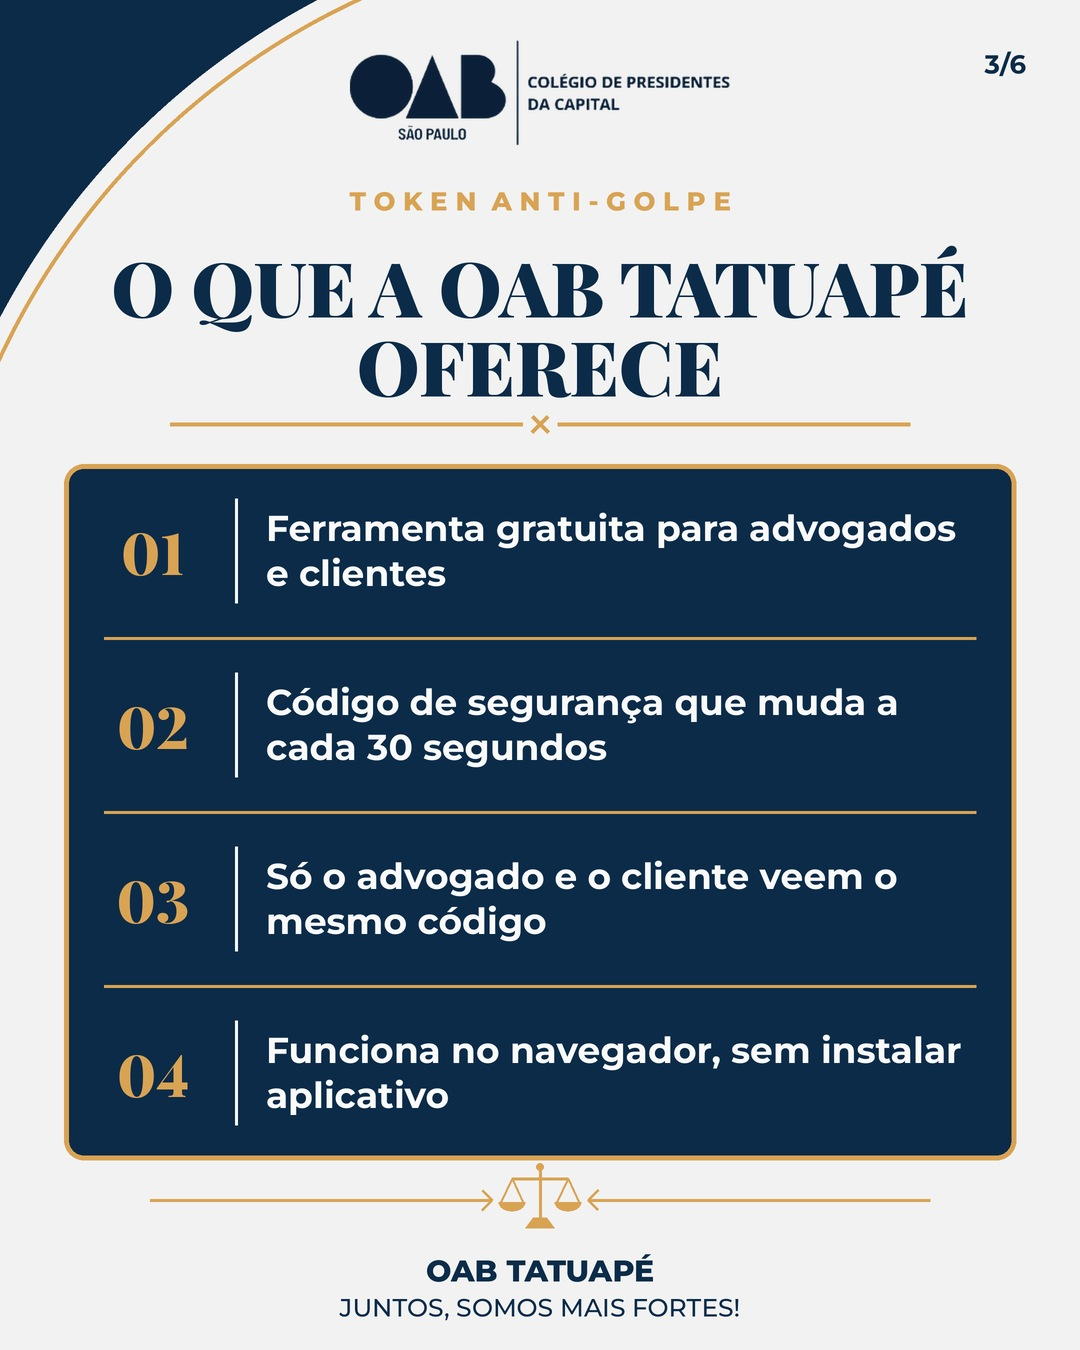
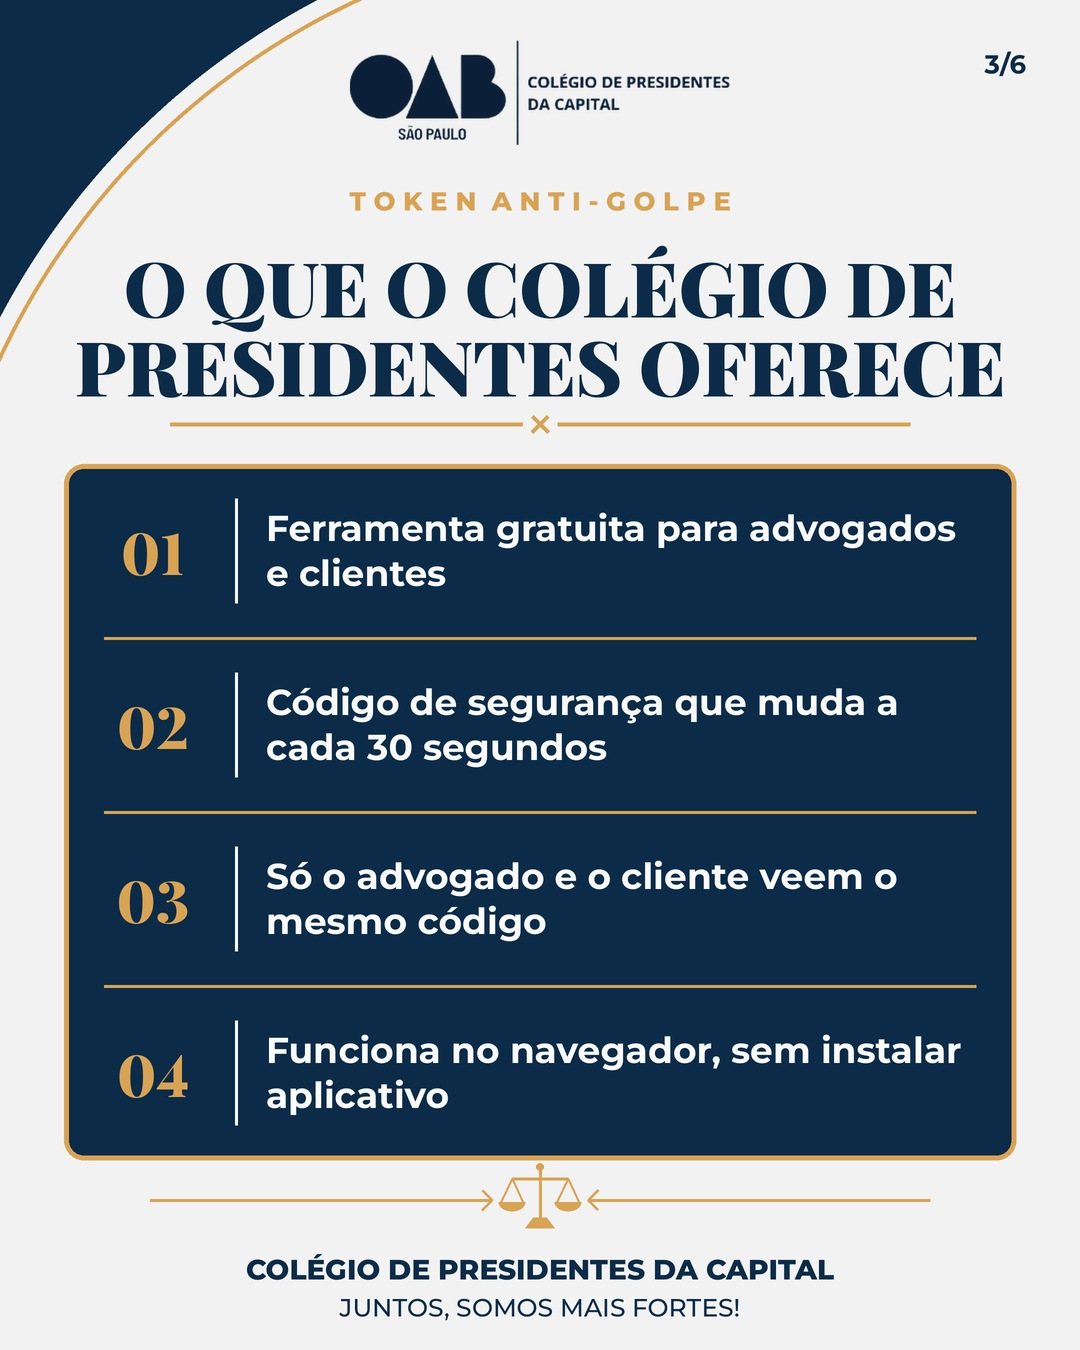
Troca OAB Tatuape por Colegio de Presidentes da Capital
Textos do carrossel W47/04, assinatura do rodape, paginas e folha
impressa do Token Anti-Golpe, rotulo do app autenticador e guia de
identidade (pasta renomeada para identidade-colegio-capital). A
restauracao de copia aceita arquivos no formato antigo.

Claude-Session: https://claude.ai/code/session_0146vcgxv2SC91SuLoKXc1Ea

Changed region(s): [[0.0611, 0.1867, 0.9472, 0.3111], [0.2139, 0.9333, 0.7639, 0.9644]]

diff --git a/token-anti-golpe/advogado.html b/token-anti-golpe/advogado.html
@@ -106,7 +106,7 @@
 
 <footer class="rodape-site">
   Os dados deste painel ficam somente neste navegador. Faça a cópia de segurança com frequência e guarde o arquivo como guarda uma senha.
-  <div class="assina"><b>OAB TATUAPÉ</b>JUNTOS, SOMOS MAIS FORTES!</div>
+  <div class="assina"><b>COLÉGIO DE PRESIDENTES DA CAPITAL</b>JUNTOS, SOMOS MAIS FORTES!</div>
 </footer>
 
 <script src="assets/qrcode.js"></script>
@@ -287,7 +287,7 @@
     var p = dados.perfil;
     $("folha").innerHTML =
       '<h1>Token Anti-Golpe</h1>' +
-      '<p>Iniciativa da Subseção Tatuapé da OAB SP</p>' +
+      '<p>Iniciativa do Colégio de Presidentes da Capital, OAB SP</p>' +
       '<div class="caixa"><b>Seu advogado:</b> ' + T.esc(p.nome) + ' (' + T.esc(p.oab) + ')<br><b>Cliente:</b> ' + T.esc(atual.nome) + '</div>' +
       '<div class="qr">' + T.qrSvg(T.linkVinculo(p, atual), 4) + '</div>' +
       '<p style="text-align:center">Aponte a câmera do celular para o código acima e toque em <b>Confirmar vínculo</b>.</p>' +
@@ -306,7 +306,7 @@
   // ------------------------------------------------ cópia de segurança
 
   $("b-backup").addEventListener("click", function () {
-    var blob = new Blob([JSON.stringify({ tipo: "token-anti-golpe-oab-tatuape", versao: 1, gerado: new Date().toISOString(), dados: dados }, null, 2)], { type: "application/json" });
+    var blob = new Blob([JSON.stringify({ tipo: "token-anti-golpe-colegio-capital", versao: 1, gerado: new Date().toISOString(), dados: dados }, null, 2)], { type: "application/json" });
     var a = document.createElement("a");
     a.href = URL.createObjectURL(blob);
     a.download = "token-anti-golpe-copia-" + new Date().toISOString().slice(0, 10) + ".json";
@@ -324,7 +324,7 @@
     if (!f) return;
     f.text().then(function (txt) {
       var j = JSON.parse(txt);
-      if (!j || j.tipo !== "token-anti-golpe-oab-tatuape" || !j.dados || !Array.isArray(j.dados.clientes)) throw new Error();
+      if (!j || ["token-anti-golpe-colegio-capital", "token-anti-golpe-oab-tatuape"].indexOf(j.tipo) === -1 || !j.dados || !Array.isArray(j.dados.clientes)) throw new Error();
       var novos = j.dados.clientes.filter(function (c) {
         return c && c.id && c.nome && T.segredoValido(c.segredo) && !buscar(c.id);
       });

diff --git a/token-anti-golpe/index.html b/token-anti-golpe/index.html
@@ -3,8 +3,8 @@
 <head>
 <meta charset="utf-8">
 <meta name="viewport" content="width=device-width, initial-scale=1">
-<title>Token Anti-Golpe | OAB Tatuapé</title>
-<meta name="description" content="Ferramenta gratuita da OAB Tatuapé para o cliente confirmar que o contato vem mesmo do seu advogado, com um código de segurança que muda a cada 30 segundos.">
+<title>Token Anti-Golpe | Colégio de Presidentes da Capital</title>
+<meta name="description" content="Ferramenta gratuita do Colégio de Presidentes da Capital (OAB SP) para o cliente confirmar que o contato vem mesmo do seu advogado, com um código de segurança que muda a cada 30 segundos.">
 <link rel="stylesheet" href="assets/app.css">
 </head>
 <body>
@@ -122,8 +122,8 @@
 </main>
 
 <footer class="rodape-site">
-  Token Anti-Golpe, iniciativa da Subseção Tatuapé da OAB SP. Ferramenta gratuita e informativa, sem coleta de dados pessoais.
-  <div class="assina"><b>OAB TATUAPÉ</b>JUNTOS, SOMOS MAIS FORTES!</div>
+  Token Anti-Golpe, iniciativa do Colégio de Presidentes da Capital, OAB SP. Ferramenta gratuita e informativa, sem coleta de dados pessoais.
+  <div class="assina"><b>COLÉGIO DE PRESIDENTES DA CAPITAL</b>JUNTOS, SOMOS MAIS FORTES!</div>
 </footer>
 
 </body>

diff --git a/token-anti-golpe/assets/token.js b/token-anti-golpe/assets/token.js
@@ -1,5 +1,5 @@
 /*
- * Token Anti-Golpe | OAB Tatuapé
+ * Token Anti-Golpe | Colégio de Presidentes da Capital (OAB SP)
  * Núcleo comum: TOTP (RFC 6238, HMAC-SHA1, 6 dígitos, 30 segundos),
  * base32, links de vínculo e armazenamento local.
  *
@@ -11,7 +11,7 @@
 
   var PERIODO = 30;
   var DIGITOS = 6;
-  var EMISSOR = "OAB Tatuapé";
+  var EMISSOR = "OAB SP Colégio da Capital";
   var B32 = "ABCDEFGHIJKLMNOPQRSTUVWXYZ234567";
 
   // ------------------------------------------------------------ base32

diff --git a/token-anti-golpe/assets/app.css b/token-anti-golpe/assets/app.css
@@ -4,7 +4,7 @@
 @font-face { font-family: "Montserrat"; font-weight: 700; font-display: swap; src: url(fonts/Montserrat-Bold.woff2) format("woff2"); }
 @font-face { font-family: "Montserrat"; font-weight: 800; font-display: swap; src: url(fonts/Montserrat-ExtraBold.woff2) format("woff2"); }
 
-/* Identidade OAB Tatuapé: fundo claro, azul-marinho, dourado */
+/* Identidade Colégio de Presidentes da Capital: fundo claro, azul-marinho, dourado */
 :root {
   --navy: #0b2b49;
   --navy-2: #0b2038;

diff --git a/token-anti-golpe/cliente.html b/token-anti-golpe/cliente.html
@@ -72,7 +72,7 @@
 
 <footer class="rodape-site">
   O código é calculado neste celular e nada é enviado pela internet. Mantenha o relógio do celular no horário automático.
-  <div class="assina"><b>OAB TATUAPÉ</b>JUNTOS, SOMOS MAIS FORTES!</div>
+  <div class="assina"><b>COLÉGIO DE PRESIDENTES DA CAPITAL</b>JUNTOS, SOMOS MAIS FORTES!</div>
 </footer>
 
 <script src="assets/qrcode.js"></script>

diff --git a/identidade-colegio-capital/render_colegio_capital.py b/identidade-colegio-capital/render_colegio_capital.py
@@ -1,12 +1,12 @@
 #!/usr/bin/env python3
 """
-Gerador de carrossel na identidade visual da OAB Tatuapé.
+Gerador de carrossel na identidade visual do Colégio de Presidentes da Capital (OAB SP).
 
 Uso:
-    python3 render_oab_tatuape.py roteiro.json -o pasta/saida [--jpg]
+    python3 render_colegio_capital.py roteiro.json -o pasta/saida [--jpg]
 
 Lê um roteiro em JSON e gera um arquivo 1080x1350 por card.
-Paleta, tipografia e ornamentos seguem a arte de referência da Subseção
+Paleta, tipografia e ornamentos seguem a arte de referência
 (fundo claro, azul-marinho, dourado, títulos serifados).
 """
 
@@ -166,7 +166,7 @@ def rodape(draw, W, H, completo):
     seta(draw, cx + px(48), y, -1)
     balanca(draw, cx, y, px(56))
     y += px(52)
-    draw.text((cx, y), "OAB TATUAPÉ", font=fonte("sans_black", px(30)), fill=NAVY, anchor="ma")
+    draw.text((cx, y), "COLÉGIO DE PRESIDENTES DA CAPITAL", font=fonte("sans_black", px(28)), fill=NAVY, anchor="ma")
     y += px(40)
     draw.text((cx, y), "JUNTOS, SOMOS MAIS FORTES!", font=fonte("sans", px(25)), fill=NAVY, anchor="ma")
 
@@ -307,7 +307,7 @@ def card_cta(c, W, H, i, n):
     y += px(28)
     regua(d, px(170), W - px(170), y)
     y += px(40)
-    acoes = c.get("acoes") or ["Siga a OAB Tatuapé", "Compartilhe com quem precisa", "Salve para consultar depois"]
+    acoes = c.get("acoes") or ["Siga o Colégio de Presidentes da Capital", "Compartilhe com quem precisa", "Salve para consultar depois"]
     linhas_na_caixa(d, acoes, px(64), y, W - px(64), H - px(200))
     rodape(d, W, H, completo=True)
     return img
@@ -336,7 +336,7 @@ def gerar(roteiro, saida, jpg=False):
 
 
 def main():
-    ap = argparse.ArgumentParser(description="Carrossel na identidade da OAB Tatuapé")
+    ap = argparse.ArgumentParser(description="Carrossel na identidade do Colégio de Presidentes da Capital")
     ap.add_argument("roteiro")
     ap.add_argument("-o", "--saida", required=True)
     ap.add_argument("--jpg", action="store_true", help="salvar em JPG em vez de PNG")

diff --git a/token-anti-golpe/README.md b/token-anti-golpe/README.md
@@ -1,4 +1,4 @@
-# Token Anti-Golpe | OAB Tatuapé
+# Token Anti-Golpe | Colégio de Presidentes da Capital
 
 Ferramenta gratuita para o cliente confirmar que um contato vem mesmo do seu advogado, por meio de um código de 6 dígitos que muda a cada 30 segundos.
 
@@ -20,7 +20,7 @@ Ferramenta gratuita para o cliente confirmar que um contato vem mesmo do seu adv
 
 ## Publicar
 
-São arquivos estáticos e não exigem servidor de aplicação. Qualquer hospedagem com HTTPS serve: GitHub Pages, Netlify, Cloudflare Pages ou o próprio site da Subseção. HTTPS é obrigatório, porque o navegador só libera a criptografia (`crypto.subtle`) em conexão segura.
+São arquivos estáticos e não exigem servidor de aplicação. Qualquer hospedagem com HTTPS serve: GitHub Pages, Netlify, Cloudflare Pages ou o site institucional. HTTPS é obrigatório, porque o navegador só libera a criptografia (`crypto.subtle`) em conexão segura.
 
 Para testar no computador:
 
@@ -36,12 +36,12 @@ python3 -m http.server 8000
 - O advogado deve fazer a cópia de segurança do painel. O arquivo contém as chaves dos clientes e deve ser guardado como uma senha.
 - A proteção depende da regra de ouro: quem diz o código é o advogado, e o cliente nunca lê o próprio código para ninguém. Sem isso, um golpista pode pedir o código ao cliente e repeti-lo.
 
-## Antes de divulgar como serviço da Subseção
+## Antes de divulgar como serviço do Colégio
 
-- Aprovação da diretoria da Subseção e, se for o caso, ciência da Seccional (OAB SP).
+- Aprovação do Colégio de Presidentes e, se for o caso, ciência da Seccional (OAB SP).
 - Domínio institucional para hospedar as páginas.
 - Revisão de LGPD (a ferramenta não coleta dados, mas a política de privacidade deve dizer isso).
-- Um contato oficial da Subseção para dúvidas, a incluir no rodapé de `index.html`.
+- Um contato oficial do Colégio para dúvidas, a incluir no rodapé de `index.html`.
 
 ## Licenças
 
@@ -49,4 +49,4 @@ python3 -m http.server 8000
 
 ## Identidade visual
 
-As páginas seguem a identidade da OAB Tatuapé descrita em `../identidade-oab-tatuape/README.md`: fundo claro, azul-marinho `#0B2B49`, dourado `#D9A354`, Playfair Display nos títulos e Montserrat no texto. Fontes e logo ficam em `assets/` para as páginas funcionarem sem depender de serviços externos.
+As páginas seguem a identidade do Colégio de Presidentes da Capital descrita em `../identidade-colegio-capital/README.md`: fundo claro, azul-marinho `#0B2B49`, dourado `#D9A354`, Playfair Display nos títulos e Montserrat no texto. Fontes e logo ficam em `assets/` para as páginas funcionarem sem depender de serviços externos.

diff --git a/identidade-colegio-capital/README.md b/identidade-colegio-capital/README.md
@@ -1,6 +1,6 @@
-# Identidade visual | OAB Tatuapé
+# Identidade visual | Colégio de Presidentes da Capital
 
-Padrão extraído da arte de referência da Subseção ("The Veredict Experience | Júri Simulado"). Vale para carrosséis, posts, páginas web e materiais impressos da OAB Tatuapé.
+Padrão visual extraído da arte "The Veredict Experience | Júri Simulado", com o logo do Colégio de Presidentes da Capital (OAB SP). Vale para carrosséis, posts, páginas web e materiais impressos do Colégio.
 
 ## Cores
 
@@ -26,12 +26,12 @@ As fontes estão em `fonts/` (licença SIL Open Font License).
 2. **Canto curvo** azul-marinho no alto à esquerda, com filete dourado acompanhando a curva.
 3. **Filete dourado com "×" central** separando o título do conteúdo.
 4. **Caixa azul com borda dourada e cantos arredondados** para as informações. Em listas, cada faixa traz um número dourado, uma divisória branca e o texto, separadas por filetes dourados.
-5. **Rodapé:** filete dourado com setas apontando para a balança central, "OAB TATUAPÉ" e "JUNTOS, SOMOS MAIS FORTES!". Sem nome de pessoa na assinatura.
+5. **Rodapé:** filete dourado com setas apontando para a balança central, "COLÉGIO DE PRESIDENTES DA CAPITAL" e "JUNTOS, SOMOS MAIS FORTES!". Sem nome de pessoa na assinatura.
 
 ## Gerar um carrossel
 
 ```bash
-python3 identidade-oab-tatuape/render_oab_tatuape.py roteiro.json -o 2026-WXX/NN --jpg
+python3 identidade-colegio-capital/render_colegio_capital.py roteiro.json -o 2026-WXX/NN --jpg
 ```
 
 Tipos de card e campos:
